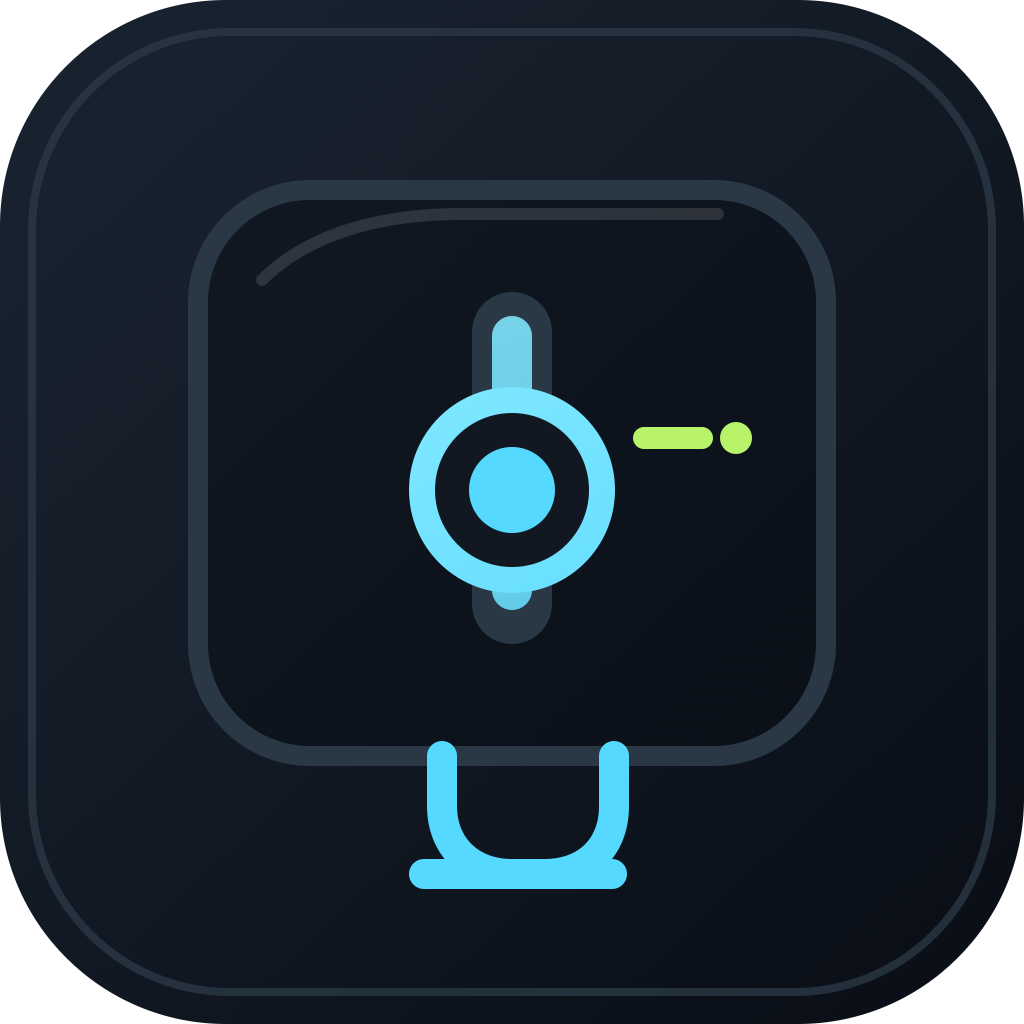
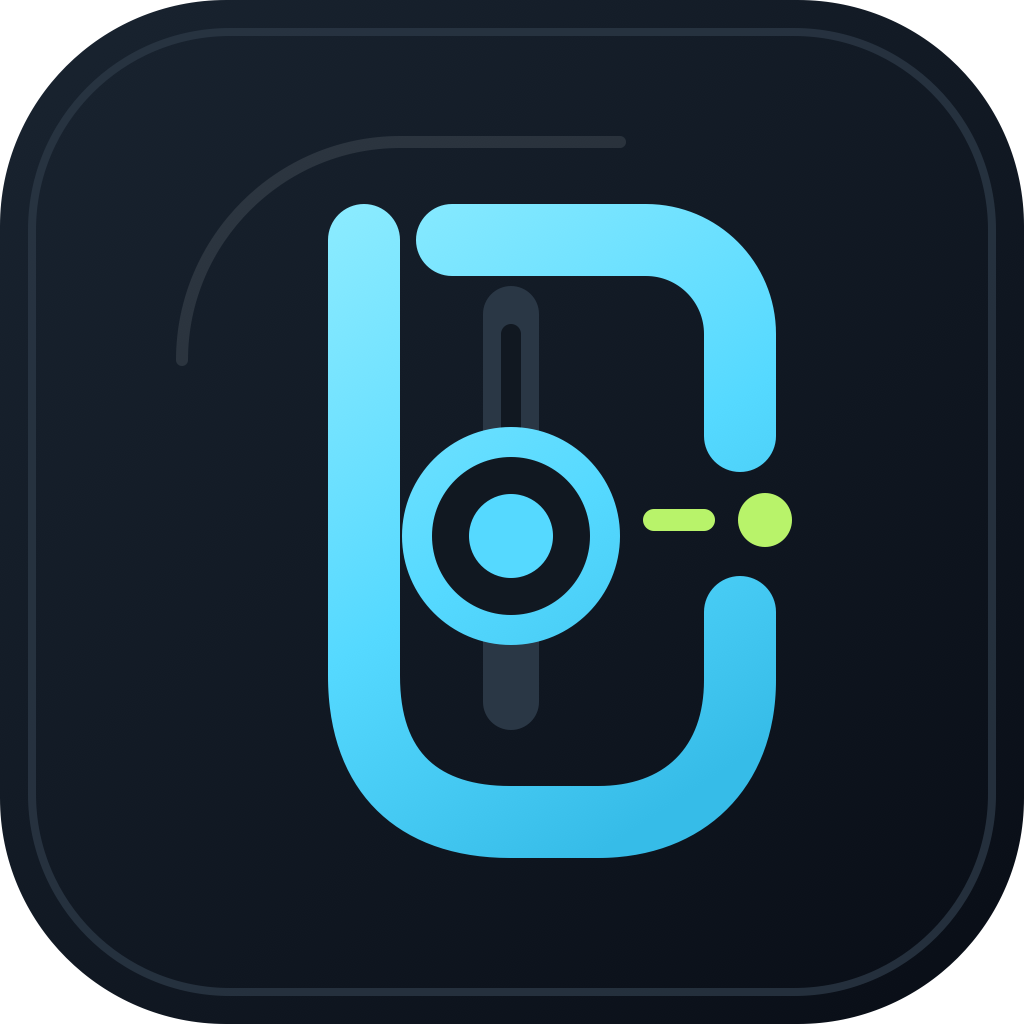
feat: establish DJ Gate visual system

Changed region(s): [[0.1562, 0.1562, 0.8438, 0.875], [0.25, 0.25, 0.2812, 0.2812]]

diff --git a/Sources/DisplayDJBar/DisplayDJStatusIcon.swift b/Sources/DisplayDJBar/DisplayDJStatusIcon.swift
@@ -1,24 +1,32 @@
 import AppKit
 
-/// A compact, template-rendered version of the DisplayDJ display-and-fader mark.
+/// A compact, template-rendered version of the asymmetric DisplayDJ DJ Gate.
 ///
 /// The app icon may use the brand palette, but macOS menu-bar artwork must adapt to the
 /// system appearance. Drawing this small reduction as a template keeps it legible in both
-/// appearances while retaining the display frame, fader and cue concepts.
+/// appearances while retaining the channel, fader and cue concepts.
 enum DisplayDJStatusIcon {
   static func make(accessibilityDescription: String) -> NSImage {
     let image = NSImage(size: NSSize(width: 18, height: 18), flipped: false) { bounds in
-      let frame = NSRect(x: 2, y: 3.5, width: 14, height: 11)
-      NSBezierPath(roundedRect: frame, xRadius: 3, yRadius: 3).stroke()
+      let gate = NSBezierPath()
+      gate.move(to: NSPoint(x: 5, y: 15))
+      gate.line(to: NSPoint(x: 5, y: 7.25))
+      gate.curve(to: NSPoint(x: 9.25, y: 3.5), controlPoint1: NSPoint(x: 5, y: 4.6), controlPoint2: NSPoint(x: 6.7, y: 3.5))
+      gate.line(to: NSPoint(x: 11.5, y: 3.5))
+      gate.curve(to: NSPoint(x: 14, y: 6), controlPoint1: NSPoint(x: 12.9, y: 3.5), controlPoint2: NSPoint(x: 14, y: 4.6))
+      gate.lineCapStyle = .round
+      gate.lineJoinStyle = .round
+      gate.lineWidth = 2
+      gate.stroke()
 
       let track = NSBezierPath()
-      track.move(to: NSPoint(x: 9, y: 5.5))
-      track.line(to: NSPoint(x: 9, y: 12.5))
+      track.move(to: NSPoint(x: 9, y: 6))
+      track.line(to: NSPoint(x: 9, y: 13.5))
       track.lineCapStyle = .round
       track.lineWidth = 2
       track.stroke()
 
-      NSBezierPath(ovalIn: NSRect(x: 6.75, y: 7.75, width: 4.5, height: 4.5)).fill()
+      NSBezierPath(ovalIn: NSRect(x: 6.5, y: 8, width: 5, height: 5)).fill()
       return true
     }
     image.isTemplate = true

diff --git a/Sources/VibeDisplayCore/Support/Version.swift b/Sources/VibeDisplayCore/Support/Version.swift
@@ -2,7 +2,7 @@ import Foundation
 
 public enum VibeVersion {
     /// Single source of truth for the unified CLI and app bundle.
-    public static let current = "0.2.0"
+    public static let current = "0.2.1"
     public static let apiVersion = "v1"
 
     public static var userAgent: String { "display-cli/\(current) (macOS)" }

diff --git a/scripts/smoke.py b/scripts/smoke.py
@@ -9,9 +9,9 @@ with tempfile.TemporaryDirectory(prefix='display-cli-smoke-') as directory:
         result = subprocess.run([str(binary), *args, '--json'], env=env, capture_output=True, text=True, timeout=30)
         assert result.returncode == expected, (args, result.returncode, result.stderr, result.stdout)
         return json.loads(result.stdout)
-    assert cli('version')['data']['version'] == '0.2.0'
+    assert cli('version')['data']['version'] == '0.2.1'
     legacy = subprocess.run([str(binary.with_name('displaydj')), '--version'], capture_output=True, text=True, timeout=10)
-    assert legacy.returncode == 0 and legacy.stdout.strip() == '0.2.0'
+    assert legacy.returncode == 0 and legacy.stdout.strip() == '0.2.1'
     assert cli('help')['ok']
     assert not cli('disconnect', expected=2)['ok']
     assert not cli('unknown-command', expected=2)['ok']

diff --git a/docs/BRAND.md b/docs/BRAND.md
@@ -1,0 +1,33 @@
+# DisplayDJ 品牌系统
+
+## 母题：DJ Gate / 校准通道
+
+DisplayDJ 的识别锚点不是“显示器图标加一个滑块”，而是一条不对称的校准通道：上方横向开口、左侧下行的轨道、底部轻微回勾形成可恢复的出口。fader 旋钮始终在该通道中运动；右侧 cue 只表达状态。
+
+这条骨架同时表达显示器控制（校准通道）、DJ（fader/cue）和 Agent（通道内可观察、可恢复的任务信号），不把三种隐喻画成三个竞争的图形。
+
+## 尺寸规则
+
+| 表面 | 保留 | 删除 |
+| --- | --- | --- |
+| App / GitHub，64px 以上 | 完整 DJ Gate、轨道、knob、cue | 文字、刻度、额外弧线 |
+| 32px | Gate、knob、cue | 内部轨道高光 |
+| 16–18px 菜单栏 | Gate 与 knob 的单色 template | cue 颜色、阴影、渐变 |
+
+主图标不使用显示器支架、同心 target 或太阳图形；这些元素会把它重新带回通用亮度工具的视觉类别。
+
+## 颜色与状态
+
+| Token | Hex | 唯一职责 |
+| --- | --- | --- |
+| Midnight | `#0A0F18` | 深色画布 |
+| Graphite | `#111821` | 底层表面 |
+| Panel | `#18222E` | 抬升表面 |
+| Divider | `#2A3745` | 轨道与边界 |
+| Spectral Cyan | `#55D9FF` | 唯一品牌控制色与 DJ Gate |
+| Signal Lime | `#B8F36A` | active / healthy cue |
+| Agent Violet | `#8B7CFF` | automation cue，不参与主图标主体 |
+| Warm Amber | `#FFBC5E` | waiting / busy cue |
+| Restore Coral | `#FF6F73` | error / disconnect cue |
+
+同一份 icon、banner、架构图和状态 glyph 都从 DJ Gate 骨架出发。状态变化只改变 cue 与少量通道反馈，不能替换主轮廓。

diff --git a/CHANGELOG.md b/CHANGELOG.md
@@ -1,5 +1,11 @@
 # Changelog
 
+## 0.2.1 — DJ Gate identity system
+
+- Replace the generic display-and-target composition with the asymmetric DisplayDJ DJ Gate: one calibration channel, one fader knob and one state cue.
+- Make the same gate shape the menu-bar template mark, so the smallest product surface carries the same signature rather than a generic display outline.
+- Add the brand-system rules for size reduction, semantic color use and cross-asset composition.
+
 ## 0.2.0 — DisplayDJ visual identity
 
 - Add the DisplayDJ application icon: a rounded display frame, vertical fader, brightness knob and restrained active cue, authored as a source SVG and packaged as an `.icns` bundle asset.

diff --git a/README.md b/README.md
@@ -18,6 +18,8 @@ DisplayDJ 将 **DisplayDJ 的菜单栏与外屏硬件引擎**，和 **VibeDispla
   <img src="Assets/DisplayDJIcon.svg" alt="DisplayDJ：显示器框架、垂直 fader 与亮度控制" width="160">
 </p>
 
+DisplayDJ 的视觉锚点是 **DJ Gate（校准通道）**：一条不对称的可恢复通道承载 fader 与状态 cue，而不是通用的显示器或太阳图标。完整尺寸和状态规则见[品牌系统](docs/BRAND.md)。
+
 ## 一个工具，三个入口
 
 | 入口 | 适合谁 | 已实现能力 |
